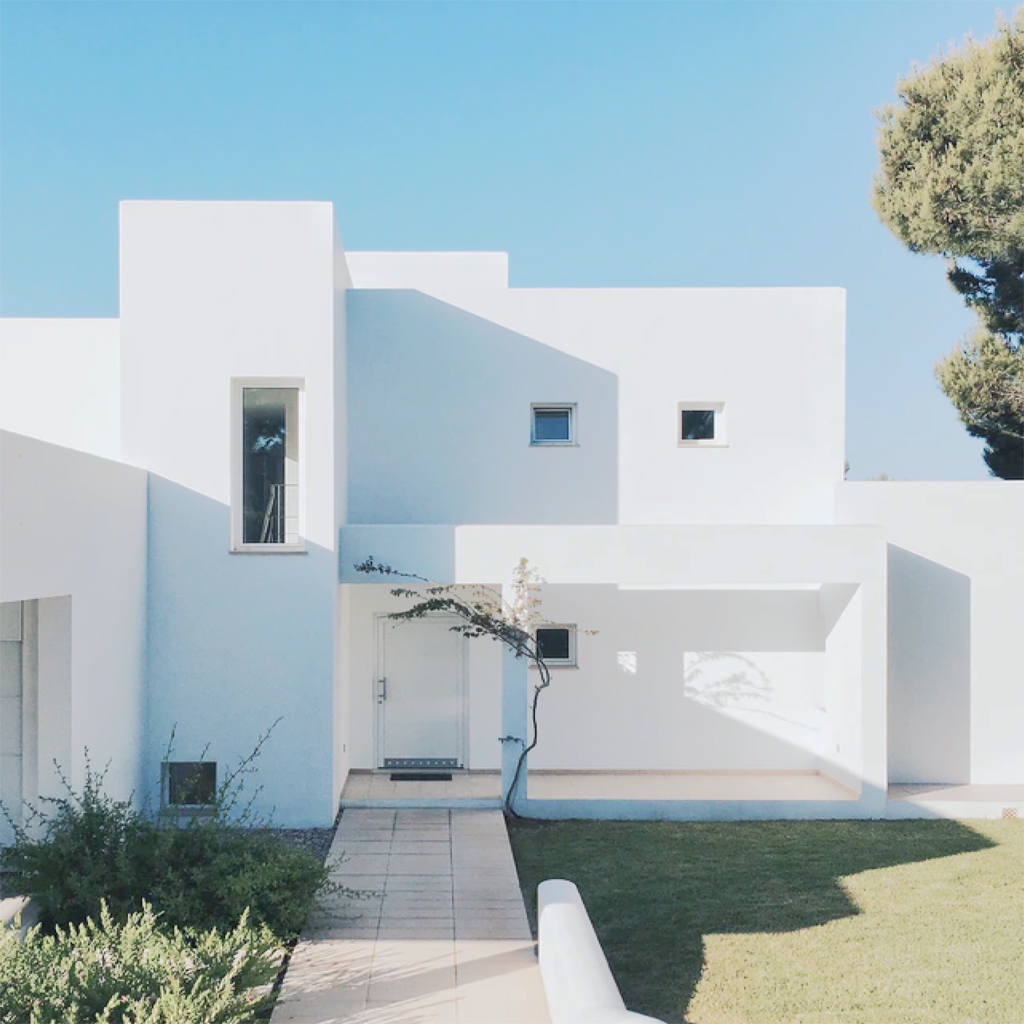
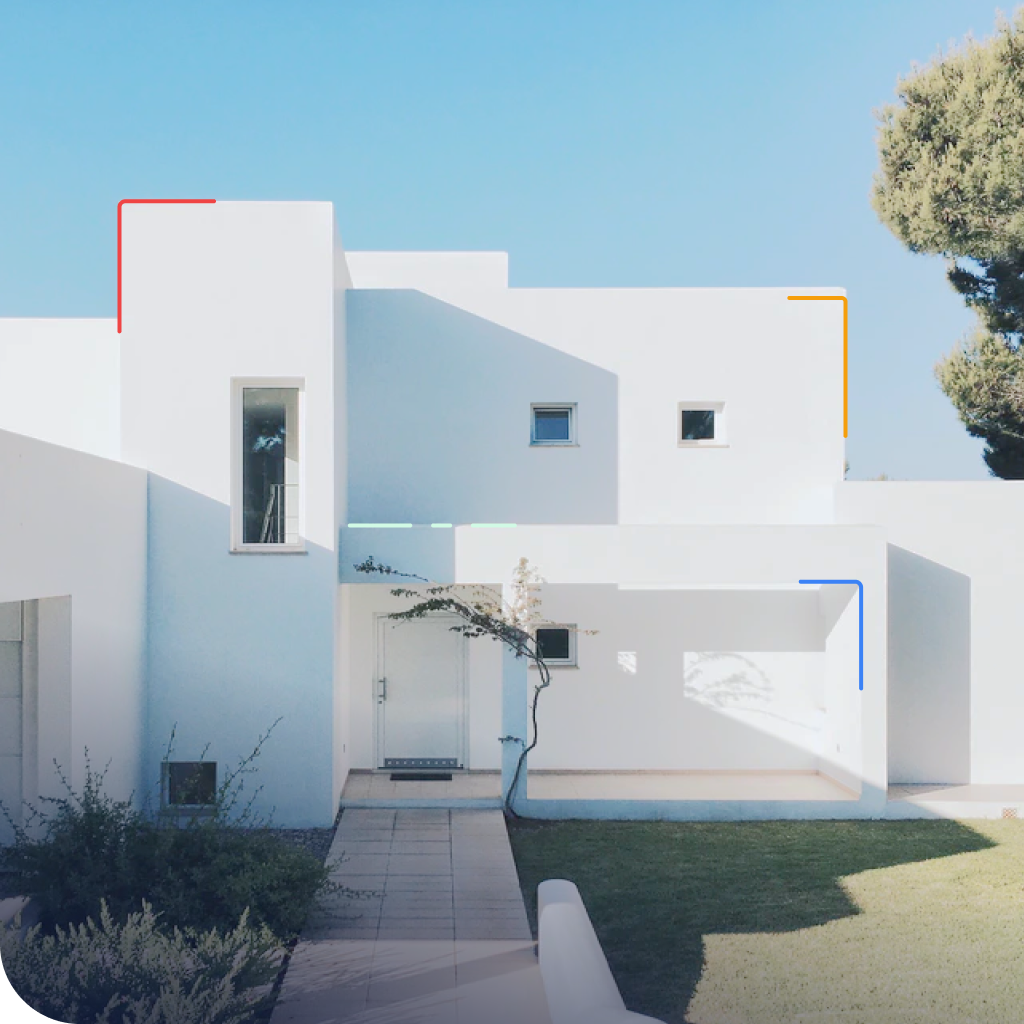
Add basis cards

diff --git a/index.html b/index.html
@@ -8,7 +8,7 @@
     <title>Hounter</title>
   </head>
   <body>
-    <header class="absolute top-0 w-full px-[7.5rem] py-10">
+    <header class="absolute top-0 z-10 w-full px-[7.5rem] py-10">
       <div class="flex items-center justify-between">
         <div class="flex items-center gap-x-3">
           <svg
@@ -35,22 +35,22 @@
               <li>
                 <a
                   href="/about"
-                  class="block rounded-[32px] border border-white/30 bg-white/10 px-4 text-sm font-semibold leading-[2.125rem] text-[#f0f3fd]"
-                  >About Us</a
+                  class="block rounded-[32px] border border-white/30 bg-white/10 px-4 text-sm font-semibold leading-[2rem] text-[#f0f3fd]"
+                  ><div class="w-16">About Us</div></a
                 >
               </li>
               <li>
                 <a
                   href="/article"
-                  class="block rounded-[32px] border border-white/30 bg-white/10 px-4 text-sm font-semibold leading-[2.125rem] text-[#f0f3fd]"
-                  >Article</a
+                  class="block rounded-[32px] border border-white/30 bg-white/10 px-4 text-sm font-semibold leading-[2rem] text-[#f0f3fd]"
+                  ><div class="w-[2.8755rem]">Article</div></a
                 >
               </li>
               <li>
                 <button
-                  class="block rounded-[32px] border border-white/30 bg-white/10 px-4 text-sm font-semibold leading-[2.125rem] text-[#f0f3fd]"
+                  class="block rounded-[32px] border border-white/30 bg-white/10 px-4 text-sm font-semibold leading-[2rem] text-[#f0f3fd]"
                 >
-                  <span class="mr-2.5">Property</span
+                  <span class="mr-2.5 inline-block w-[3.875rem]">Property</span
                   ><svg
                     class="inline-block"
                     width="18"
@@ -79,80 +79,15 @@
     </header>
 
     <main>
-      <section class="flex justify-between overflow-hidden">
-        <svg
-          width="688"
-          height="481"
-          viewBox="0 0 688 481"
-          fill="none"
-          xmlns="http://www.w3.org/2000/svg"
-          class="absolute top-0 left-0 -z-10"
-        >
-          <g opacity="0.3" filter="url(#filter0_f_4_17)">
-            <path
-              fill-rule="evenodd"
-              clip-rule="evenodd"
-              d="M298.209 155.001C287.173 189.669 261.914 216.19 239.037 244.462C219.326 268.821 198.32 290.535 173.292 309.373C145.414 330.356 119.122 359.558 84.2732 360.946C49.3115 362.339 19.9507 336.407 -8.93251 316.634C-36.0888 298.044 -55.4251 272.427 -78.8344 249.286C-110.874 217.612 -166.167 199.642 -172.434 155.001C-178.493 111.845 -134.511 78.3497 -107.647 44.0607C-83.8375 13.6712 -57.2616 -13.2453 -24.5624 -33.7378C9.01465 -54.7805 45.0816 -81.9806 84.2732 -76.2154C123.401 -70.4596 140.038 -20.5008 176.088 -4.2213C218.116 14.7576 280.755 -11.4202 308.836 25.1917C335.703 60.222 311.604 112.919 298.209 155.001Z"
-              fill="#82F7FF"
-            />
-          </g>
-          <g opacity="0.3" filter="url(#filter1_f_4_17)">
-            <path
-              fill-rule="evenodd"
-              clip-rule="evenodd"
-              d="M545.209 70.0007C534.173 104.669 508.914 131.19 486.037 159.462C466.326 183.821 445.32 205.535 420.292 224.373C392.414 245.356 366.122 274.558 331.273 275.946C296.311 277.339 266.951 251.407 238.067 231.634C210.911 213.044 191.575 187.427 168.166 164.286C136.126 132.612 80.8334 114.642 74.5661 70.0007C68.5073 26.8452 112.489 -6.65035 139.353 -40.9393C163.162 -71.3288 189.738 -98.2453 222.438 -118.738C256.015 -139.781 292.082 -166.981 331.273 -161.215C370.401 -155.46 387.038 -105.501 423.088 -89.2213C465.116 -70.2424 527.755 -96.4202 555.836 -59.8083C582.703 -24.778 558.604 27.919 545.209 70.0007Z"
-              fill="#82FFD2"
-            />
-          </g>
-          <defs>
-            <filter
-              id="filter0_f_4_17"
-              x="-293"
-              y="-197"
-              width="734"
-              height="678"
-              filterUnits="userSpaceOnUse"
-              color-interpolation-filters="sRGB"
-            >
-              <feFlood flood-opacity="0" result="BackgroundImageFix" />
-              <feBlend
-                mode="normal"
-                in="SourceGraphic"
-                in2="BackgroundImageFix"
-                result="shape"
-              />
-              <feGaussianBlur
-                stdDeviation="60"
-                result="effect1_foregroundBlur_4_17"
-              />
-            </filter>
-            <filter
-              id="filter1_f_4_17"
-              x="-46"
-              y="-282"
-              width="734"
-              height="678"
-              filterUnits="userSpaceOnUse"
-              color-interpolation-filters="sRGB"
-            >
-              <feFlood flood-opacity="0" result="BackgroundImageFix" />
-              <feBlend
-                mode="normal"
-                in="SourceGraphic"
-                in2="BackgroundImageFix"
-                result="shape"
-              />
-              <feGaussianBlur
-                stdDeviation="60"
-                result="effect1_foregroundBlur_4_17"
-              />
-            </filter>
-          </defs>
-        </svg>
-
-        <div class="w-1/2 pt-48 pl-[7.5rem] pr-[6.5rem]">
+      <section class="flex items-start">
+        <div class="w-1/2 pt-[11.375rem] pl-[7.5rem] pr-[6.5rem]">
+          <img
+            src="./src/assets/cloud.png"
+            alt="Blue cloud"
+            class="absolute top-0 left-0 -z-10"
+          />
           <h1
-            class="mb-6 text-[2.5rem] font-semibold text-[#1b1c57]"
+            class="mb-6 text-[2.5rem] font-semibold leading-[3.125rem] text-[#1b1c57]"
             style="
               text-shadow: 1px 0 #1b1c57, -1px 0 #1b1c57, 0 1px #1b1c57,
                 0 -1px #1b1c57, 1px 1px #1b1c57, -1px -1px #1b1c57,
@@ -163,8 +98,7 @@
             <span class="text-white">Your Dreams</span><br />
             Easily Here
           </h1>
-
-          <p class="mb-8 text-[#626687]">
+          <p class="mb-8 leading-7 text-[#626687] opacity-75">
             Everything you need about finding your place to live will be here,
             where it will be easier for you
           </p>
@@ -185,14 +119,12 @@
                   fill="#F59E0B"
                 />
               </svg>
-
               <input
                 type="search"
                 name="location"
                 placeholder="Search for the location you want!"
-                class="h-full flex-auto text-[#888b97]"
+                class="h-full flex-auto text-sm font-medium text-[#888b97]"
               />
-
               <button
                 class="flex h-full items-center rounded-[2rem] bg-[#10b981] px-4 text-white"
               >
@@ -213,8 +145,7 @@
             </div>
           </div>
 
-          <p class="text-[#888b97]">Our Partnership</p>
-
+          <p class="leading-8 text-[#888b97]">Our Partnership</p>
           <div class="mr-[4.3125rem] flex h-16 items-center gap-x-8">
             <div class="flex h-full items-center">
               <img
@@ -247,12 +178,74 @@
           </div>
         </div>
 
-        <div class="aspect-square w-1/2">
-          <img
-            src="./src/assets/house.png"
-            alt="House"
-            class="absolute top-0 right-0 -z-10 w-1/2 rounded-bl-[5rem] object-contain"
-          />
+        <div class="relative aspect-square w-1/2 overflow-hidden">
+          <img src="./src/assets/house.png" alt="House" class="w-full" />
+
+          <div
+            class="absolute bottom-[2.375rem] left-12 flex w-full items-start gap-x-4"
+          >
+            <div class="flex items-center gap-x-4 rounded-[2rem] bg-white p-6">
+              <div class="flex">
+                <img
+                  src="./src/assets/avatar-1.jpg"
+                  alt="Woman"
+                  width="56"
+                  height="56"
+                  class="max-w-[3.5rem] rounded-full border-[0.188rem] border-white"
+                /><img
+                  src="./src/assets/avatar-2.jpg"
+                  alt="Man"
+                  width="56"
+                  height="56"
+                  class="-ml-[28px] max-w-[3.5rem] rounded-full border-[0.188rem] border-white"
+                /><img
+                  src="./src/assets/avatar-3.jpg"
+                  alt="Woman"
+                  width="56"
+                  height="56"
+                  class="-ml-[28px] max-w-[3.5rem] rounded-full border-[0.188rem] border-white"
+                />
+              </div>
+              <div class="w-[9.5rem]">
+                <h3 class="mb-[0.125rem] font-semibold text-[#1b1c57]">
+                  1K+ People
+                </h3>
+                <p class="text-xs leading-5 text-[#68799f]">
+                  Successfully Getting Home
+                </p>
+              </div>
+            </div>
+            <div class="flex items-center gap-x-4 rounded-[2rem] bg-white p-6">
+              <img
+                src="./src/assets/icon.png"
+                alt="House"
+                width="56"
+                height="56"
+                class="h-14 w-14 max-w-[3.5rem] rounded-3xl object-cover"
+              />
+              <div class="w-[5.125rem]">
+                <h3 class="mb-[0.125rem] font-semibold text-[#1b1c57]">
+                  56 Houses
+                </h3>
+                <p class="text-xs leading-5 text-[#68799f]">Sold Monthly</p>
+              </div>
+            </div>
+            <div class="flex items-center gap-x-4 rounded-[2rem] bg-white p-6">
+              <img
+                src="./src/assets/avatar-4.jpg"
+                alt="House"
+                width="56"
+                height="56"
+                class="h-14 w-14 max-w-[3.5rem] rounded-full border-[0.188rem] border-white object-cover"
+              />
+              <div class="w-[11.438rem]">
+                <h3 class="mb-[0.125rem] font-semibold text-[#1b1c57]">4K+</h3>
+                <p class="text-xs leading-5 text-[#68799f]">
+                  People Looking for New Homes
+                </p>
+              </div>
+            </div>
+          </div>
         </div>
       </section>
     </main>

diff --git a/tailwind.config.js b/tailwind.config.js
@@ -1,4 +1,12 @@
 /** @type {import('tailwindcss').Config} */
 module.exports = {
   content: ["./*.html"],
+  theme: {
+    extend: {
+      backgroundImage: {
+        "linear-gradient":
+          "linear-gradient(16.74deg, #0C1537 -6.09%, rgba(12, 21, 55, 0) 32.63%)",
+      },
+    },
+  },
 };
